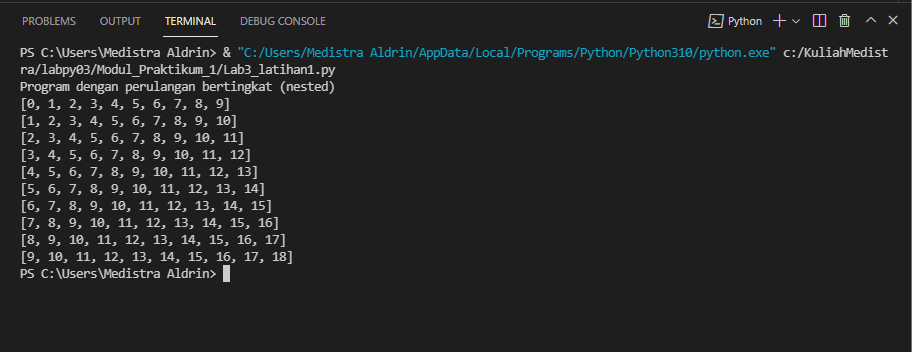
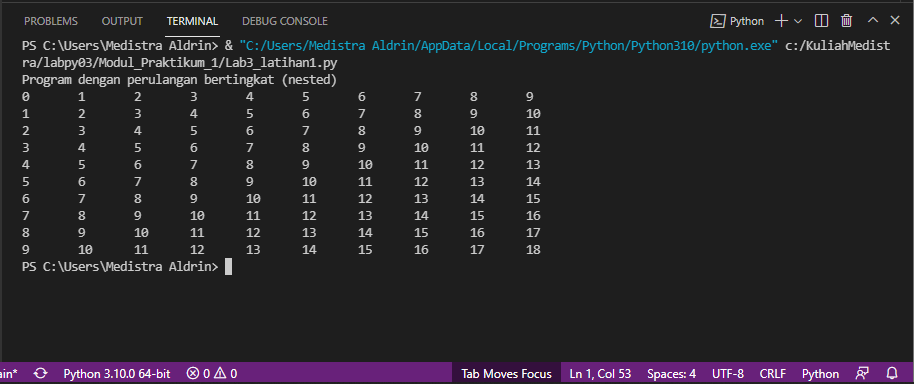
Menambahka folder

diff --git a/Modul_Praktikum_1/Lab3_latihan1.py b/Modul_Praktikum_1/Lab3_latihan1.py
@@ -1,12 +1,10 @@
-print ("Program dengan perulangan bertingkat (nested)")
+print("Program dengan perulangan bertingkat (nested)")
 
-print(list(range(10)))
-print(list(range(1, 11)))
-print(list(range(2, 12)))
-print(list(range(3, 13)))
-print(list(range(4, 14)))
-print(list(range(5, 15)))
-print(list(range(6, 16)))
-print(list(range(7, 17)))
-print(list(range(8, 18)))
-print(list(range(9, 19)))
+angka = [0, 1, 2, 3, 4, 5, 6, 7, 8, 9]
+baris = 10
+
+for ijumlah in range(baris):
+    
+    print(*angka, sep="\t")
+    for coloum in range(10):
+        angka[coloum] = angka[coloum]+1
